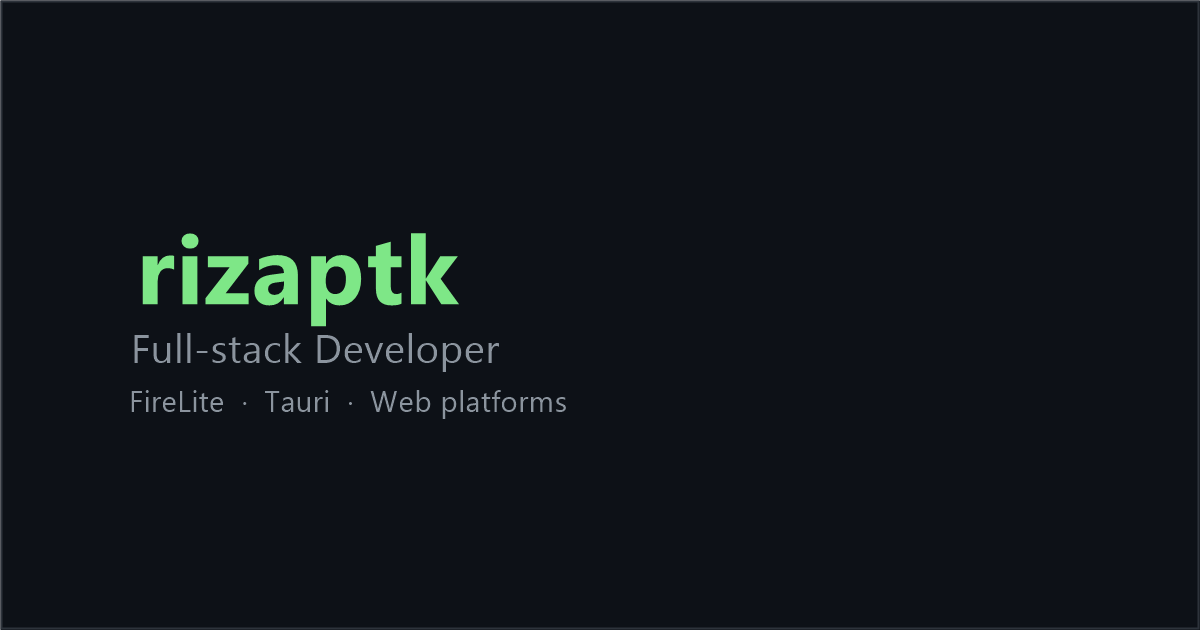
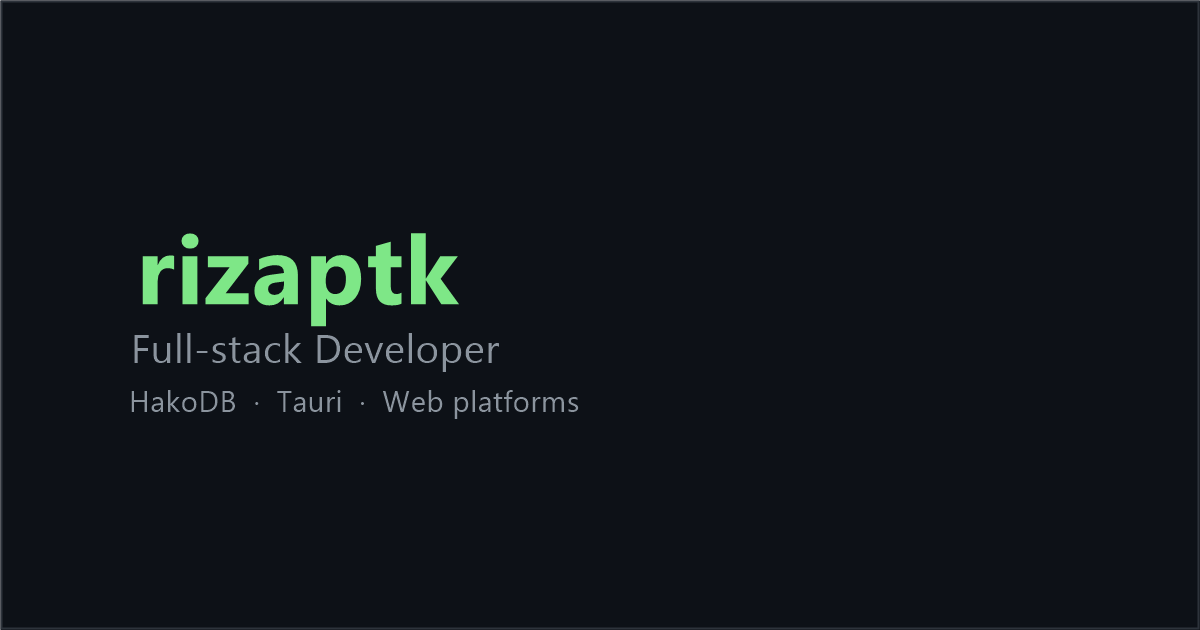
FireLite -> HakoDB, replace libfirelite with HakoDB

Changed region(s): [[0.3083, 0.6032, 0.4933, 0.6635], [0.1233, 0.6032, 0.2775, 0.6635]]

diff --git a/index.html b/index.html
@@ -73,7 +73,7 @@ footer{border-top:1px solid var(--border);margin-top:3rem;padding-top:1.5rem;col
   <header>
     <h1>rizaptk</h1>
     <p>Full-stack Developer · Pontianak, Indonesia</p>
-    <p class="now">Now: FireLite · Kastoko & TokoCepat · AI agents</p>
+    <p class="now">Now: HakoDB · Kastoko & TokoCepat · AI agents</p>
     <div class="links">
       <a href="https://github.com/rizaptk" rel="me">github.com/rizaptk</a>
     </div>
@@ -81,14 +81,14 @@ footer{border-top:1px solid var(--border);margin-top:3rem;padding-top:1.5rem;col
 
   <section class="about" style="margin-top:3rem">
     <h2>About</h2>
-    <p>Full-stack developer working across the stack — from an embedded document database (FireLite) to desktop apps (Tauri) and web platforms for education. Mostly JavaScript and Pascal, with a PHP past.</p>
+    <p>Full-stack developer working across the stack — from an embedded document database (HakoDB) to desktop apps (Tauri) and web platforms for education. Mostly JavaScript and Pascal, with a PHP past.</p>
     <p style="margin-top:.6rem">offline-first apps · embedded databases · dev tooling · education tech</p>
   </section>
 
   <section class="timeline" style="margin-top:2rem">
     <h2>Background</h2>
     <ul>
-      <li><b>Now</b> — Rust, Tauri & FireLite: embedded document DBs, offline-first POS, AI-agent tooling</li>
+      <li><b>Now</b> — Rust, Tauri & HakoDB: embedded document DBs, offline-first POS, AI-agent tooling</li>
       <li><b>Education tech</b> — full-stack web platforms for FKIP Untan & chemistry learning (ChemBS, Silangkau, ScholaSync, FirePressExpress)</li>
       <li><b>Before</b> — PHP backends, Angular & React frontends</li>
     </ul>
@@ -117,7 +117,7 @@ footer{border-top:1px solid var(--border);margin-top:3rem;padding-top:1.5rem;col
     <a class="project featured" href="https://kastoko.vercel.app/">
       <img class="shot" src="assets/kastoko.png" alt="Kastoko POS app screenshot" loading="lazy">
       <div class="name">Kastoko <span class="badge">Featured</span> <span class="arrow">↗</span></div>
-      <div class="desc">Offline-first POS app for Windows desktop — the complete variant, up to cloud sync. Tauri v2, FireLite embedded DB.</div>
+      <div class="desc">Offline-first POS app for Windows desktop — the complete variant, up to cloud sync. Tauri v2, HakoDB embedded DB.</div>
     </a>
     <a class="project featured" href="https://tokocepat-pos.web.app/">
       <img class="shot" src="assets/tokocepat.webp" alt="TokoCepat POS app screenshot" loading="lazy">
@@ -127,9 +127,9 @@ footer{border-top:1px solid var(--border);margin-top:3rem;padding-top:1.5rem;col
     <p class="sublink">App releases: <a href="https://github.com/rizaptk/tokocepat-dist">github.com/rizaptk/tokocepat-dist</a> · CI: <a href="https://github.com/rizaptk/kastoko-updates">github.com/rizaptk/kastoko-updates</a></p>
 
     <h3>Libraries & releases</h3>
-    <a class="project" href="https://github.com/rizaptk/libfirelite">
-      <div class="name">libfirelite <span class="arrow">↗</span></div>
-      <div class="desc">Prebuilt FireLite embedded document DB — C ABI, Go/JS/Pascal SDK gateways, CLI, fair SQLite benchmarks.</div>
+    <a class="project" href="https://hakodb.github.io/">
+      <div class="name">HakoDB <span class="arrow">↗</span></div>
+      <div class="desc">Embedded, Firestore-style document DB in Rust — successor of FireLite: core engine, CLI, cloud server, Tauri bindings, Go/JS/Pascal SDKs, benchmarks.</div>
     </a>
     <a class="project" href="https://github.com/rizaptk/firesqlite">
       <div class="name">firesqlite <span class="arrow">↗</span></div>
@@ -137,7 +137,7 @@ footer{border-top:1px solid var(--border);margin-top:3rem;padding-top:1.5rem;col
     </a>
     <a class="project" href="https://github.com/rizaptk/kastoko-updates">
       <div class="name">kastoko-updates <span class="arrow">↗</span></div>
-      <div class="desc">CI release channel for Kastoko (Windows desktop), powered by FireLite.</div>
+      <div class="desc">CI release channel for Kastoko (Windows desktop), powered by HakoDB.</div>
     </a>
 
     <h3>Live apps</h3>
